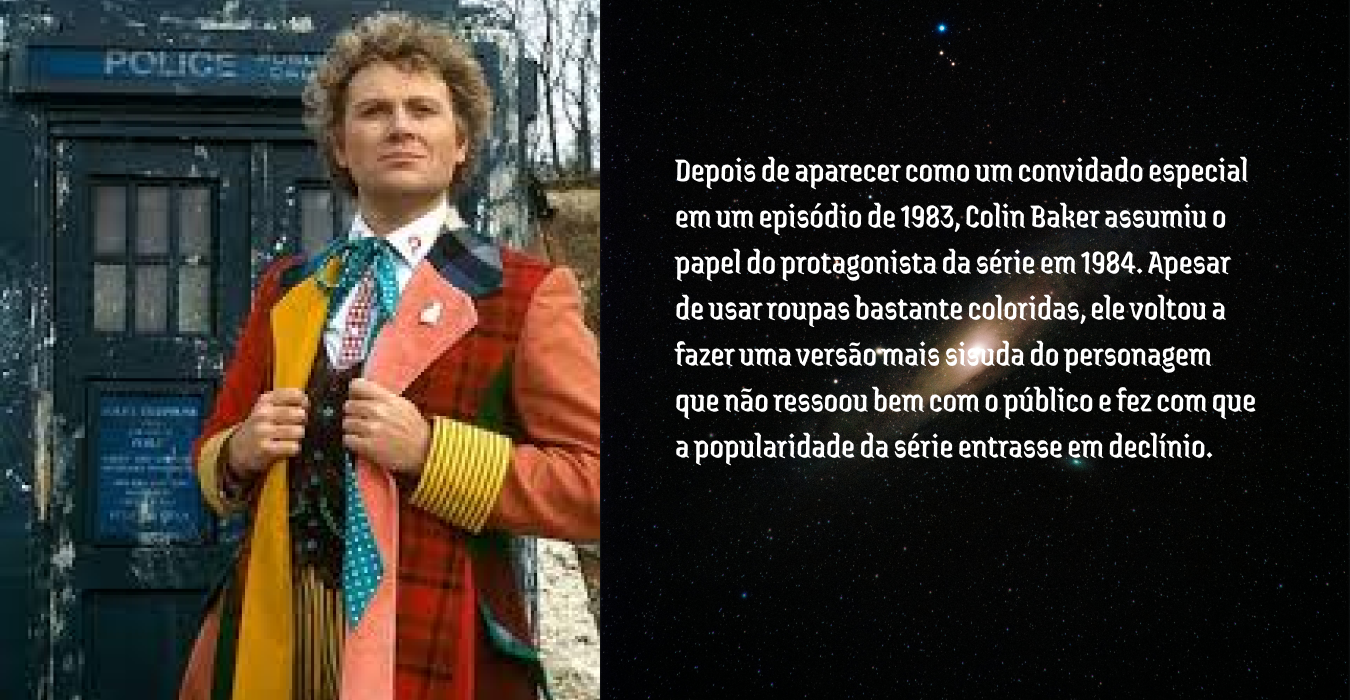
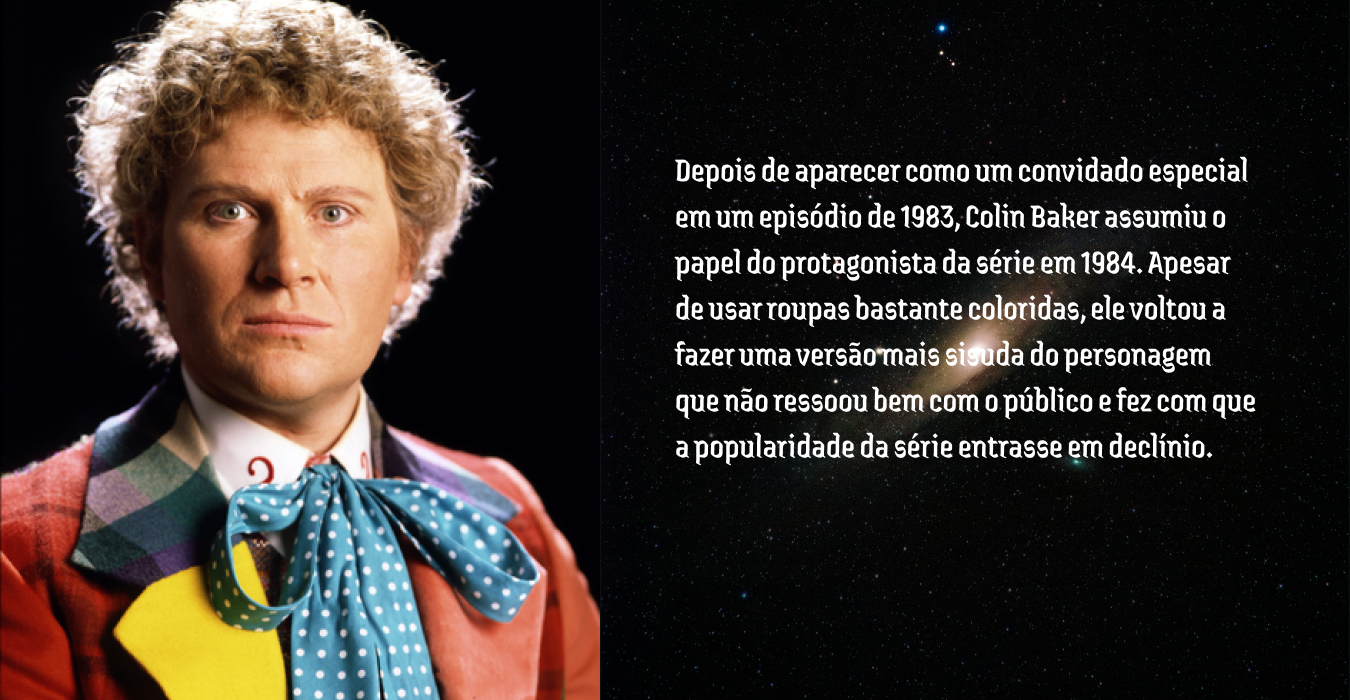
Adiciona carrocel

diff --git a/css/index.css b/css/index.css
@@ -21,11 +21,11 @@
 
 a {
     text-decoration: none;
-    color: black;
+    color: white;
 }
 
 a:hover {
-    color: white;
+    color: lightblue;
 }
 
 .logo {
@@ -35,7 +35,7 @@ a:hover {
 
 .header {
     font-family: 'DoctorWho';
-    color: black;
+    color: white;
     background-color:  #001F3F;
     display: flex;
     flex-direction: row;
@@ -49,6 +49,7 @@ a:hover {
 }
 
 .header li {
+    color: white;
     padding-top: 10px;
     display: flex;
     list-style: none;
@@ -80,9 +81,67 @@ a:hover {
     font-weight: bold;
 }
 
+.sessao {
+    background-color: #000814;
+    display: flex;
+    flex-direction: column;
+    width: 100%;
+    height: 100vh;
+}
+
+.sessao  h2 {
+    font-family: 'Rubik', sans-serif;
+    color: white;
+    font-weight:bolder;
+    font-size: 80px;
+    justify-content: center;
+    align-items: center;
+    margin-left: 750px;
+}
+
+.slider button img {
+   width: 150px;
+   height: 200px;
+}
+
+.slider button {
+    background-color: transparent;
+    margin-left: 100px;
+    margin-right: 100px;
+    border: none;
+}
+
+
+
+.slider {
+    width: 100%;
+    height: 80vw;
+    display: flex;
+    flex-direction: row;
+    align-items: center;
+    justify-content: space-between;
+}
+
 .slider ul {
     position: relative;
     display: flex;
+}
+
+.slider li {
+    justify-content: center;
+    align-items: center;
+    list-style: none;
+}
+
+.slider .doutor {
+    position: absolute;
+    left: -655px;
+    bottom: -350px;
+    opacity: 0;
+}
+
+.slider .on {
+    opacity: 1;
 }
 
 .titulo p {

diff --git a/site/index.html b/site/index.html
@@ -36,7 +36,7 @@
            a pergunta constante é:"Doutor quem?" (em inglês, "Doctor who?").</p>
     </div>
 
-    <section>
+    <section class="sessao">
         <h2>Doutores</h2>
         <div class="slider">
             <button id="voltar" class="setaesquerda" onclick="voltar()"><img src="../carrocel/Screenshot_4-removebg-preview 1.png" alt=""></button>
@@ -103,4 +103,37 @@
     
 </body>
 </html>
-<script src="./js/index.js"></script>
+<script>
+    var imagem = document.querySelectorAll(".doutor");
+var posicao = 0;
+
+function esconder() {
+    for(var i = 0; i < imagem.length; i++) {
+        imagem[i].classList.remove('on');
+    }
+}
+
+function mostrar() {
+   imagem[posicao].classList.add('on');
+}
+
+function voltar() {
+    esconder();
+    if(posicao === 0) {
+        posicao = imagem.length - 1;
+    } else {
+        posicao--;
+    }
+    mostrar();
+}
+
+function avancar() {
+    esconder()
+    if(posicao === imagem.length - 1) {
+        posicao = 0
+    } else {
+        posicao++
+    }
+    mostrar();
+}
+</script>
